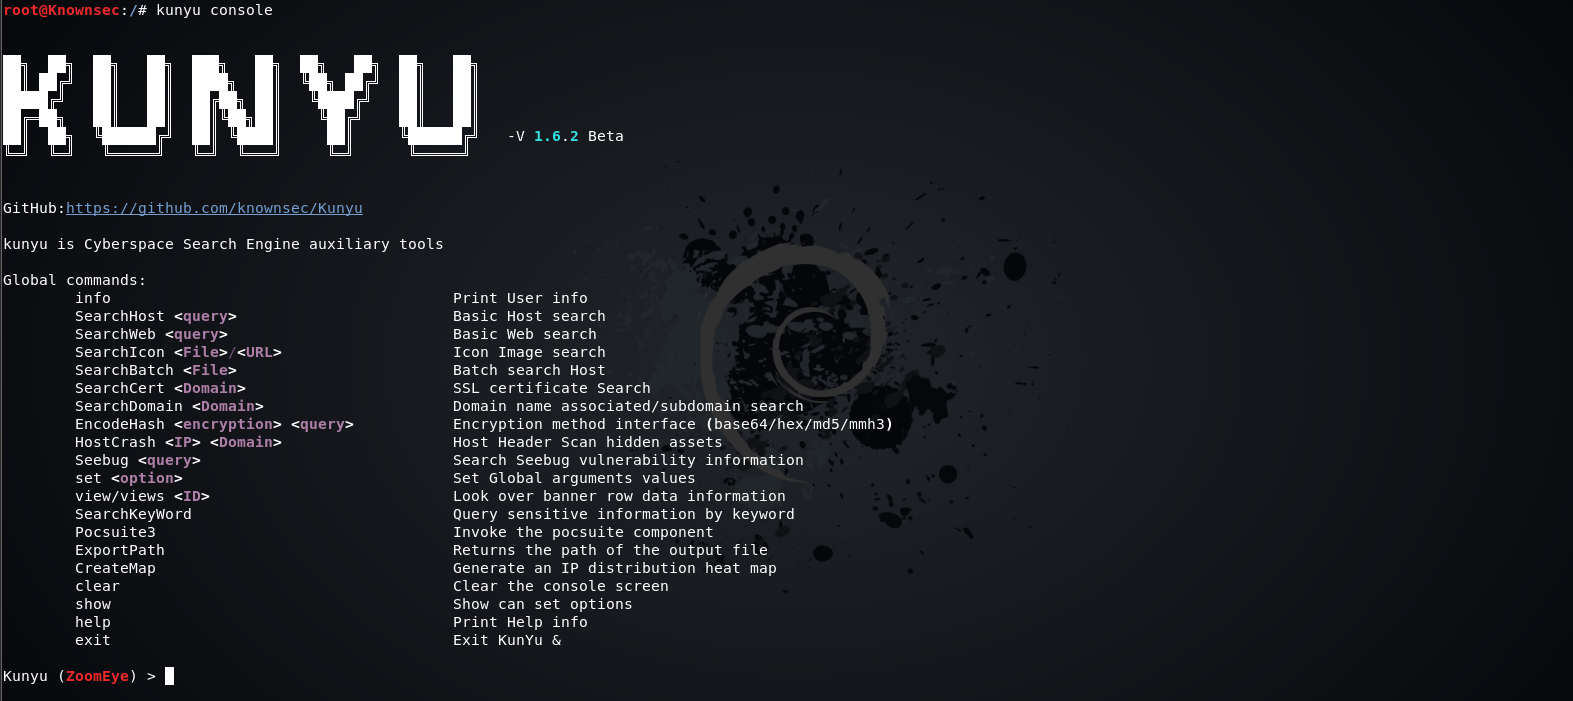
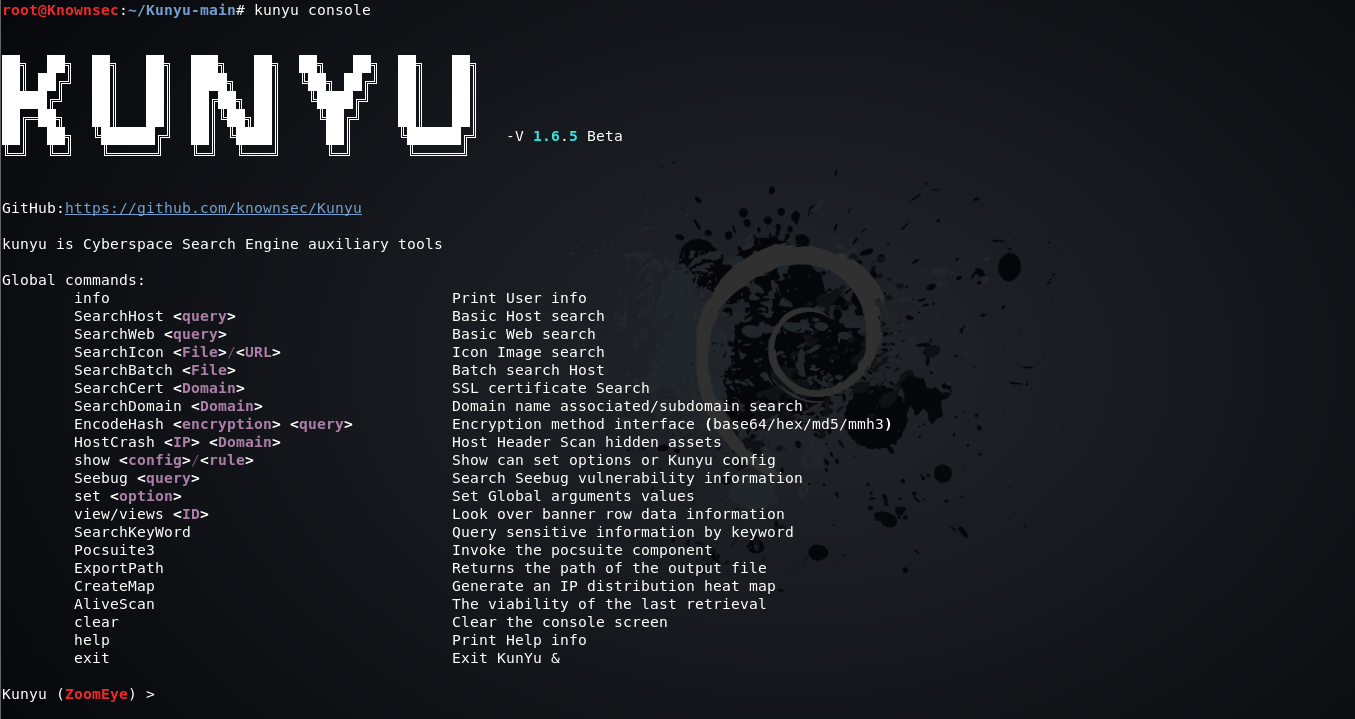
Kunyu Version Update v1.6.5

diff --git a/kunyu/core/zoomeye.py b/kunyu/core/zoomeye.py
@@ -15,6 +15,7 @@ import datetime
 
 import requests
 import platform
+from rich.live import Live
 from rich.table import Table
 from rich.console import Console
 
@@ -28,9 +29,10 @@ from pocsuite3.lib.core.interpreter import PocsuiteInterpreter
 from pocsuite3.lib.core.option import init_options
 
 from kunyu.config import setting
+from kunyu.core.scanalive import Scan_Alive_Ip
 import kunyu.lib.encode as encode
 from kunyu.config.setting import UA, USER_INFO_API, HOST_SEARCH_API, WEB_SEARCH_API, DOMAIN_SEARCH_API, HOST_SCAN_INFO, \
-    SEMSITIVE_INFO, RULE_PARMAS
+    SEMSITIVE_INFO, RULE_PARMAS, ALIVE_SCAN_INFO
 from kunyu.core.createmap import create_data_map
 from kunyu.lib.export import export_xls
 from kunyu.lib.batchfile import get_file
@@ -179,7 +181,7 @@ class GlobalVar:
 class ZoomEye:
     from kunyu.config.setting import ZOOMEYE_FIELDS_HOST, ZOOMEYE_FIELDS_WEB, ZOOMEYE_FIELDS_INFO, ZOOMEYE_FIELDS_DOMAIN
     from kunyu.utils.convert import convert
-    ssl_data_params, raw_data_params, sensitive_params, scatter_params = {}, {}, [], []
+    ssl_data_params, raw_data_params, sensitive_params, scatter_params, scan_alive_params = {}, {}, [], [], []
     page, dtype, timeout = 1, 0, 30
     stype, btype = "v4", "host"
 
@@ -202,6 +204,7 @@ class ZoomEye:
         Pocsuite3                                 Invoke the pocsuite component
         ExportPath                                Returns the path of the output file
         CreateMap                                 Generate an IP distribution heat map
+        AliveScan                                 The viability of the last retrieval
         clear                                     Clear the console screen
         help                                      Print Help info
         exit                                      Exit KunYu & """
@@ -209,16 +212,18 @@ class ZoomEye:
     # ZoomEye Command List
     Command_Info = ["help", "info", "set", "Seebug", "SearchWeb", "SearchHost", "SearchIcon", "HostCrash",
                     "SearchBatch", "SearchCert", "SearchDomain", "EncodeHash", "Pocsuite3", "ExportPath",
-                    "show", "clear", "view", "DirectoryCrash", "views", "SearchKeyWord", "CreateMap", "exit"]
+                    "show", "clear", "view", "DirectoryCrash", "AliveScan","views", "SearchKeyWord", "CreateMap", "exit"]
 
     def __init__(self):
         self.fields_tables = None
 
     def __params_clear(self):
+        # Resetting array contents
         self.raw_data_params.clear()
         self.ssl_data_params.clear()
         self.sensitive_params.clear()
         self.scatter_params.clear()
+        self.scan_alive_params.clear()
 
     def __command_search(self, search, types="host"):
         """"The raw data obtained is processed and finally displayed on the terminal,
@@ -284,7 +289,9 @@ class ZoomEye:
                                        str(data.geoinfo.city.names.en), str(title), str(data.timestamp).split("T")[0]]
 
                         # Set scatter_params info
-                        self.scatter_params.append({"lng": str(lon), "lat": str(lat), "ip": data.ip})
+                        self.scatter_params.append({
+                            "lng": str(lon), "lat": str(lat), "ip": data.ip
+                        })
 
                         # Reset the <raw Data Params> element
                         self.raw_data_params[num] = data.portinfo.banner
@@ -295,6 +302,11 @@ class ZoomEye:
                             self.ssl_data_params[num] = ssl_raw_data
                         except:
                             pass
+
+                        self.scan_alive_params.append({
+                                "ip":data.ip,
+                                "port":str(data.portinfo.port)
+                        })
 
                         # Get the sensitive information in the banner
                         sensitive = SearchKeyWord().get_keyword_sensitive(data.portinfo.banner)
@@ -643,7 +655,26 @@ class ZoomEye:
             return
 
     @classmethod
-    def command_test(cls, args):
-        from kunyu.config.setting import RULE_FILE_PATH
-        from kunyu.core.rule import YamlRule
-        print(YamlRule().get_yaml_list())
+    def command_alivescan(cls, *args, **kwargs):
+        """
+        Verify the current viability of the last retrieval result
+        """
+        from kunyu.utils.convert import convert
+        try:
+            ip_port_params, num = cls.scan_alive_params, 0
+            table = Table()
+            for column in ALIVE_SCAN_INFO:
+                table.add_column(column, justify="center", overflow=overflow)
+            logger.info("IP Service Viability Scan:")
+            # Polling output table content
+            with Live(table, refresh_per_second=4):
+                for data in ip_port_params:
+                    num += 1
+                    alive_status = convert(Scan_Alive_Ip().scan_port_status(data["ip"], data["port"]))
+                    table.add_row(
+                        str(num), alive_status.ip, str(alive_status.port), str(alive_status.state)
+                    )
+            logger.info("IP Service Viability Scan is completed\n")
+        except KeyboardInterrupt:
+            return
+

diff --git a/kunyu/core/scanalive.py b/kunyu/core/scanalive.py
@@ -1,0 +1,23 @@
+#!/usr/bin/env python
+# encoding: utf-8
+"""
+@author: 风起
+@contact: onlyzaliks@gmail.com
+@File: scanalive.py
+@Time: 2022/2/24 10:47
+"""
+
+import nmap
+
+class Scan_Alive_Ip:
+    def __init__(self):
+        self.alive_data_params = {}
+    def scan_port_status(self, ip, port):
+        nm = nmap.PortScanner()
+        # Semi-open scan using TCP SYN
+        nm.scan(ip, port, "-sS")
+        for host in nm.all_hosts():
+            for proto in nm[host].all_protocols():
+                for port in nm[host][proto].keys():
+                    self.alive_data_params = {"ip": ip, "port":port, "state":nm[host][proto][port]['state']}
+        return self.alive_data_params

diff --git a/kunyu/config/setting.py b/kunyu/config/setting.py
@@ -28,6 +28,7 @@ ZOOMEYE_FIELDS_DOMAIN = ["ID", "Domain", "IP", "TimeStamp"]
 COMMAND_INFO = ["Options", "Value", "Info"]
 SEMSITIVE_INFO = ["ID", "SEMSITIVE"]
 HOST_SCAN_INFO = ["IP", "Domain", "Title"]
+ALIVE_SCAN_INFO = ["ID", "IP", "Port", "Status"]
 RULE_INFO = ["KXID", "Author", "KX_Name", "Description", "KX_Finger", "CreateDate", "Source"]
 RULE_PARMAS = None
 

diff --git a/kunyu/config/__version__.py b/kunyu/config/__version__.py
@@ -15,7 +15,7 @@ __license__ = 'GPL-2.0'
 __python_version__ = sys.version.split()[0]
 __platform__ = platform.platform()
 __url__ = "https://github.com/knownsec/Kunyu"
-__version__ = '1.6.4'
+__version__ = '1.6.5'
 __author__ = '风起'
 __Team__ = 'KnownSec 404 Team'
 __author_email__ = 'onlyzaliks@gmail.com'

diff --git a/kunyu/core/console.py b/kunyu/core/console.py
@@ -237,7 +237,7 @@ class BaseInterpreter(object):
                 sys.exit(0)
 
             except Exception as err:
-                console.print(err)
+                # console.print(err)
                 continue
 
 

diff --git a/README.md b/README.md
@@ -91,16 +91,18 @@ Global commands:
         SearchDomain <Domain>                     Domain name associated/subdomain search
         EncodeHash <encryption> <query>           Encryption method interface 
         HostCrash <IP> <Domain>                   Host Header Scan hidden assets
+        show <config>/<rule>                      Show can set options or Kunyu config
         Seebug <query>                            Search Seebug vulnerability information
         set <option>                              Set Global arguments values
-        view/views <ID>                           Look over http/ssl row data information
+        view/views <ID>                           Look over banner row data information
         SearchKeyWord                             Query sensitive information by keyword
         Pocsuite3                                 Invoke the pocsuite component
         ExportPath                                Returns the path of the output file
+        CreateMap                                 Generate an IP distribution heat map
+        AliveScan                                 The viability of the last retrieval
         clear                                     Clear the console screen
-        show                                      Show can set options
         help                                      Print Help info
-        exit                                      Exit KunYu &
+        exit                                      Exit KunYu & 
 ```
 
 **OPTIONS**
@@ -226,6 +228,12 @@ EncodeHash mmh3 /root/favicon.ico
 EncodeHash base64 dasdasdsa
 
 ![](./images/encode.png)
+
+**Asset Survival Scan**
+
+After Kunyu V1.6.5, the survivability scan of the last retrieval result is added, and the result is output in real time by polling.
+
+![](./images/alivescan.png)
 
 **Seebug vulnerability query**
 

diff --git a/doc/README_CN.md b/doc/README_CN.md
@@ -228,6 +228,10 @@ EncodeHash base64 dasdasdsa
 
 ![](../images/encode.png)
 
+**资产存活性扫描**
+
+Kunyu V1.6.5版本后，增加了对最后一次检索结果进行存活性扫描，结果通过轮询的方式实时输出。
+
 **Seebug漏洞查询**
 
 通过输入想要查找的框架、设备等信息，查询历史相关漏洞，但是需要注意仅支持英文，这里后期会进行改进，升级。
